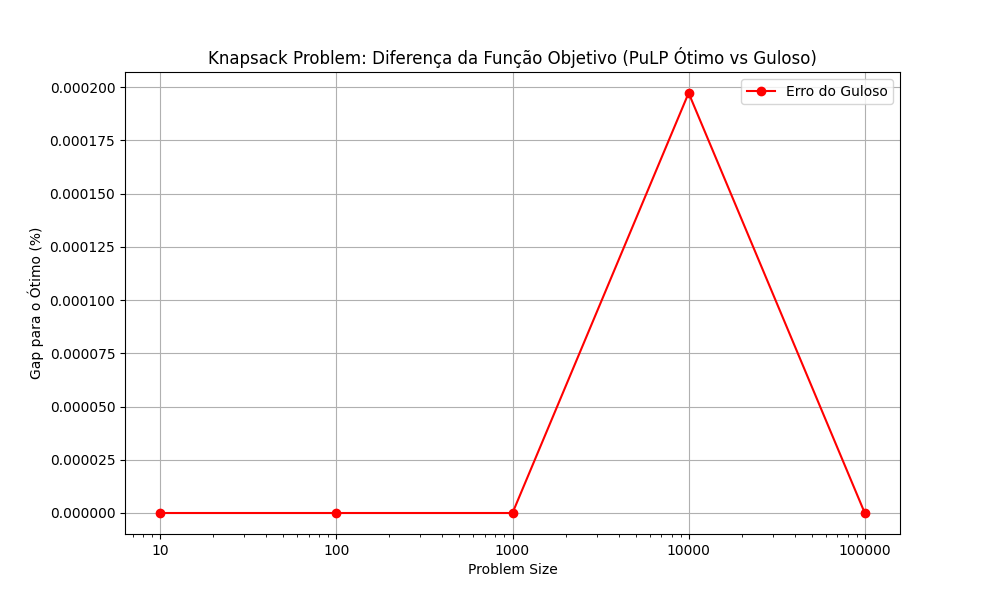
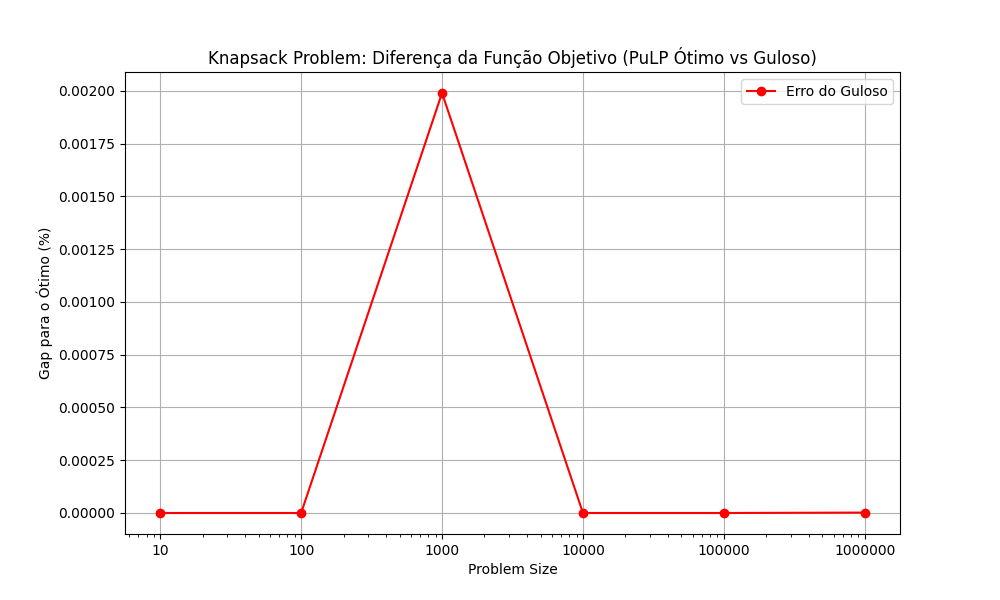
Add: Execution until 1000000

diff --git a/main.py b/main.py
@@ -130,7 +130,7 @@ def plot_gap_objetivo(sizes, diferencas):
 def main():
     #Problem sizes to test: number of items
     #sizes = [10, 1000, 10000, 100000, 1000000, 10000000]
-    sizes = [10, 100, 1000, 10000, 100000]
+    sizes = [10, 100, 1000, 10000, 100000, 1000000]
     max_weight = 50
     max_value = 100
     gap_thresholds = [0.4, 0.2, 0.1, 0.05, 0.02, 0]
